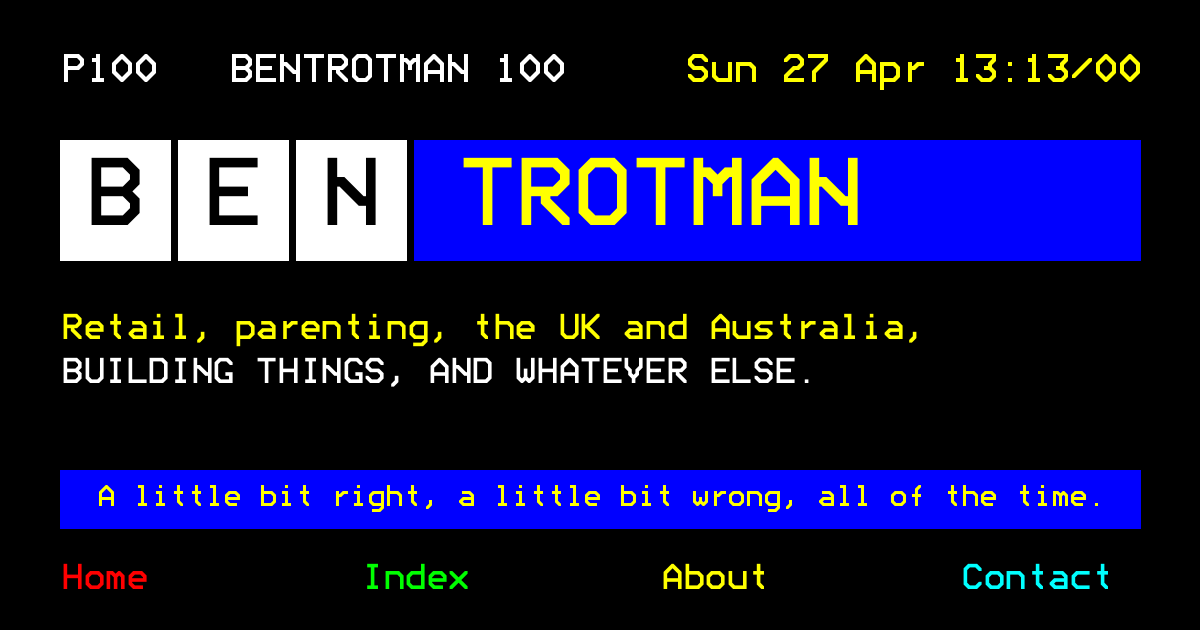
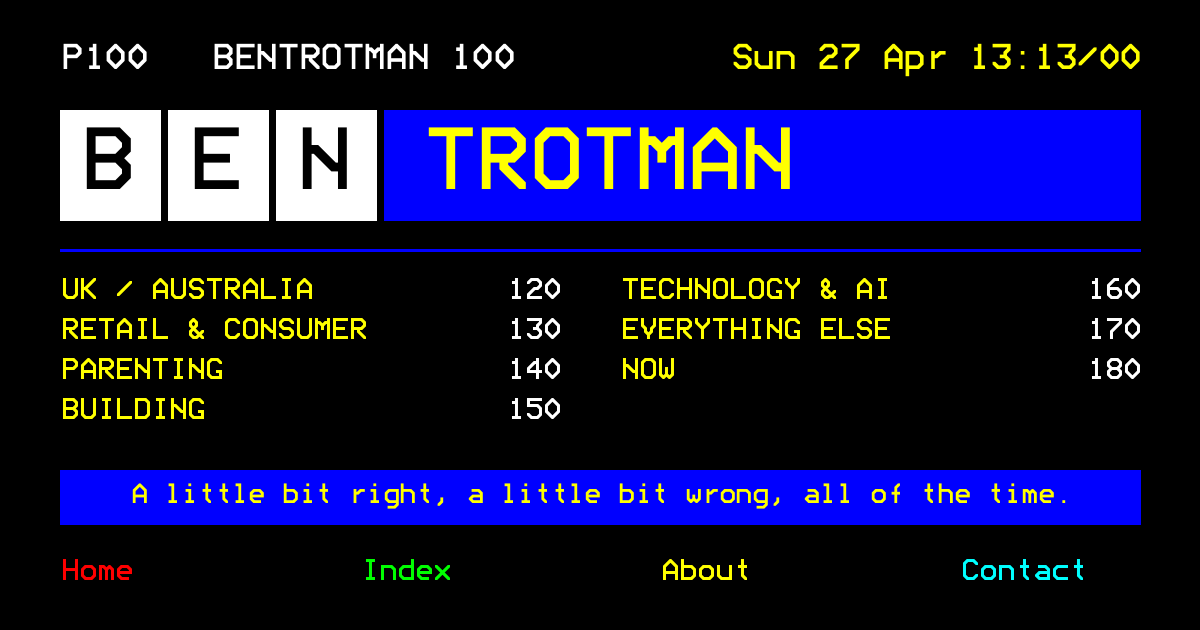
home: revision 3, seven-section index, best pages block, About/Index/Contact on Fastext only

diff --git a/app/page.tsx b/app/page.tsx
@@ -2,14 +2,18 @@ import Link from "next/link";
 import HeaderRow from "@/components/HeaderRow";
 import Masthead from "@/components/Masthead";
 import StatusLine from "@/components/StatusLine";
-import { loadAllPages, lastUpdated } from "@/lib/content";
+import { loadAllPages, loadFeatured, lastUpdated } from "@/lib/content";
 import { site, sectionList, sectionByNumber } from "@/lib/sections";
 import { longDate } from "@/lib/dates";
 
+function titleCase(name: string) {
+  return name.toLowerCase().replace(/(^|\s)\w/g, (c) => c.toUpperCase());
+}
+
 export default function Home() {
   const all = loadAllPages();
-  const [headline, ...rest] = all;
-  const latest = rest.slice(0, 6);
+  const headline = all[0];
+  const featured = loadFeatured().slice(0, 12);
   const count = all.length;
   const headlineSection = headline && sectionByNumber(headline.sectionNumber);
 
@@ -20,7 +24,7 @@ export default function Home() {
 
       {headline ? (
         <section aria-label="Headline" className="chrome flex flex-col">
-          <p className="chrome-mixed text-yellow">{headlineSection?.name.toLowerCase().replace(/^\w/, (c) => c.toUpperCase())}</p>
+          <p className="chrome-mixed text-yellow">{headlineSection ? titleCase(headlineSection.name) : "Latest"}</p>
           <Link href={`/${headline.sectionNumber}/${headline.seq}`} className="flex flex-col gap-1 text-fg lg:flex-row lg:items-end lg:justify-between">
             <span className="hover:underline hover:underline-offset-4 lg:max-w-[34ch]">{headline.title}</span>
             <span className="text-yellow">{headline.page}</span>
@@ -48,11 +52,10 @@ export default function Home() {
         </ul>
       </section>
 
-      {latest.length > 0 && (
-        <section aria-labelledby="latest" className="mt-2">
-          <h2 id="latest" className="chrome chrome-mixed text-cyan">Latest</h2>
-          <ul className="chrome flex flex-col gap-1">
-            {latest.map((p) => (
+      <section aria-labelledby="best" className="mt-4 min-h-[9rem]">
+        {featured.length > 0 ? (
+          <ul className="chrome grid gap-x-8 gap-y-1 lg:grid-cols-2">
+            {featured.map((p) => (
               <li key={p.page}>
                 <Link href={`/${p.sectionNumber}/${p.seq}`} className="flex justify-between gap-4 text-yellow hover:text-fg">
                   <span>{p.title}</span>
@@ -61,8 +64,17 @@ export default function Home() {
               </li>
             ))}
           </ul>
-        </section>
-      )}
+        ) : (
+          <div className="chrome flex flex-col">
+            <h2 id="best" className="text-cyan">Best pages</h2>
+            <p>Not yet in service.</p>
+            <p>First selection expected {site.expectedTransmission}.</p>
+            <p className="chrome-mixed text-dim">
+              Until then, everything is at <Link href="/190">190 Index</Link>.
+            </p>
+          </div>
+        )}
+      </section>
 
       <StatusLine className="mt-2">
         {count} {count === 1 ? "page" : "pages"} in service. Last updated {longDate(lastUpdated())}.

diff --git a/lib/content.ts b/lib/content.ts
@@ -18,6 +18,7 @@ export type Page = {
   summary: string;
   tags: string[];
   status: Status;
+  featured: boolean;
   body: string;
   words: number;
   file: string;
@@ -63,6 +64,7 @@ function readPageFile(s: Section, file: string): Page | null {
     summary: String(data.summary ?? ""),
     tags: Array.isArray(data.tags) ? data.tags.map(String) : [],
     status: (data.status as Status) ?? "draft",
+    featured: data.featured === true,
     body: content,
     words,
     file: path.relative(process.cwd(), full),
@@ -101,6 +103,11 @@ export function prevNext(page: Page): { prev?: Page; next?: Page } {
   const list = loadSection(page.sectionNumber).slice().sort((a, b) => a.seq.localeCompare(b.seq));
   const i = list.findIndex((p) => p.page === page.page);
   return { prev: i > 0 ? list[i - 1] : undefined, next: i >= 0 && i < list.length - 1 ? list[i + 1] : undefined };
+}
+
+/** Pages Ben has marked featured: true. Shown on HOME under the section index. */
+export function loadFeatured(): Page[] {
+  return loadAllPages().filter((p) => p.featured);
 }
 
 export function pageCount(sectionNumber?: number): number {

diff --git a/lib/sections.ts b/lib/sections.ts
@@ -40,9 +40,8 @@ export const utilityPages = [
   { number: 199, name: "CONTACT", href: "/199", block: "red" as BlockColour },
 ];
 
-/** Full ordered list for the SECTIONS block on HOME. */
+/** The SECTIONS block on HOME: the six editorial sections plus NOW. About, Index and Contact are Fastext only. */
 export const sectionList = [
-  utilityPages[1],
   ...sections.map((s) => ({ number: s.number, name: s.name, href: `/${s.number}`, block: s.block })),
-  ...utilityPages.slice(2),
+  utilityPages[2],
 ];

diff --git a/docs/build-spec.md b/docs/build-spec.md
@@ -199,6 +199,7 @@ Launch with at least one page that picks a side hard, so the strapline reads as 
 - Every page ends with a blue bar carrying the strapline in yellow, then four Fastext links: red Home, green Index, yellow About, cyan Contact.
 - List titles, page headings and nav are all in the teletext face, upper case. Only body text and summaries use Ubuntu Mono.
 - "Custom teletext font" is removed from the not-to-build list. Thirteen components (Masthead added).
+- **Revision 3.** The front-page section index lists exactly the six editorial sections plus 180 NOW, two columns, NAME left and number right. Below it, in the space the Ceefax front page used for its second link block, sits BEST PAGES: pages with `featured: true` in front matter, or a Ceefax-style "not yet in service" state when there are none. LATEST is gone from HOME; the headline is the newest page and INDEX has the rest. About, Index and Contact appear only on the Fastext row.
 
 
 ## 2.1 Visual system

diff --git a/README.md b/README.md
@@ -15,6 +15,7 @@ That's it.
 
 - `npm run dev` to see the site locally, drafts included.
 - `npm run check` to validate content without shipping. It also runs before every build.
+- To put a page in the BEST PAGES block on the front page, set `featured: true` in its front matter. Up to 12 show.
 - ABOUT, NOW and CONTACT copy live in `content/pages/`. Same workflow, no page number.
 - New section: add one line to `content/sections.json` and create the folder `content/<number>-<slug>/`.
 - Launch date and frozen clock: `content/site.json`.
